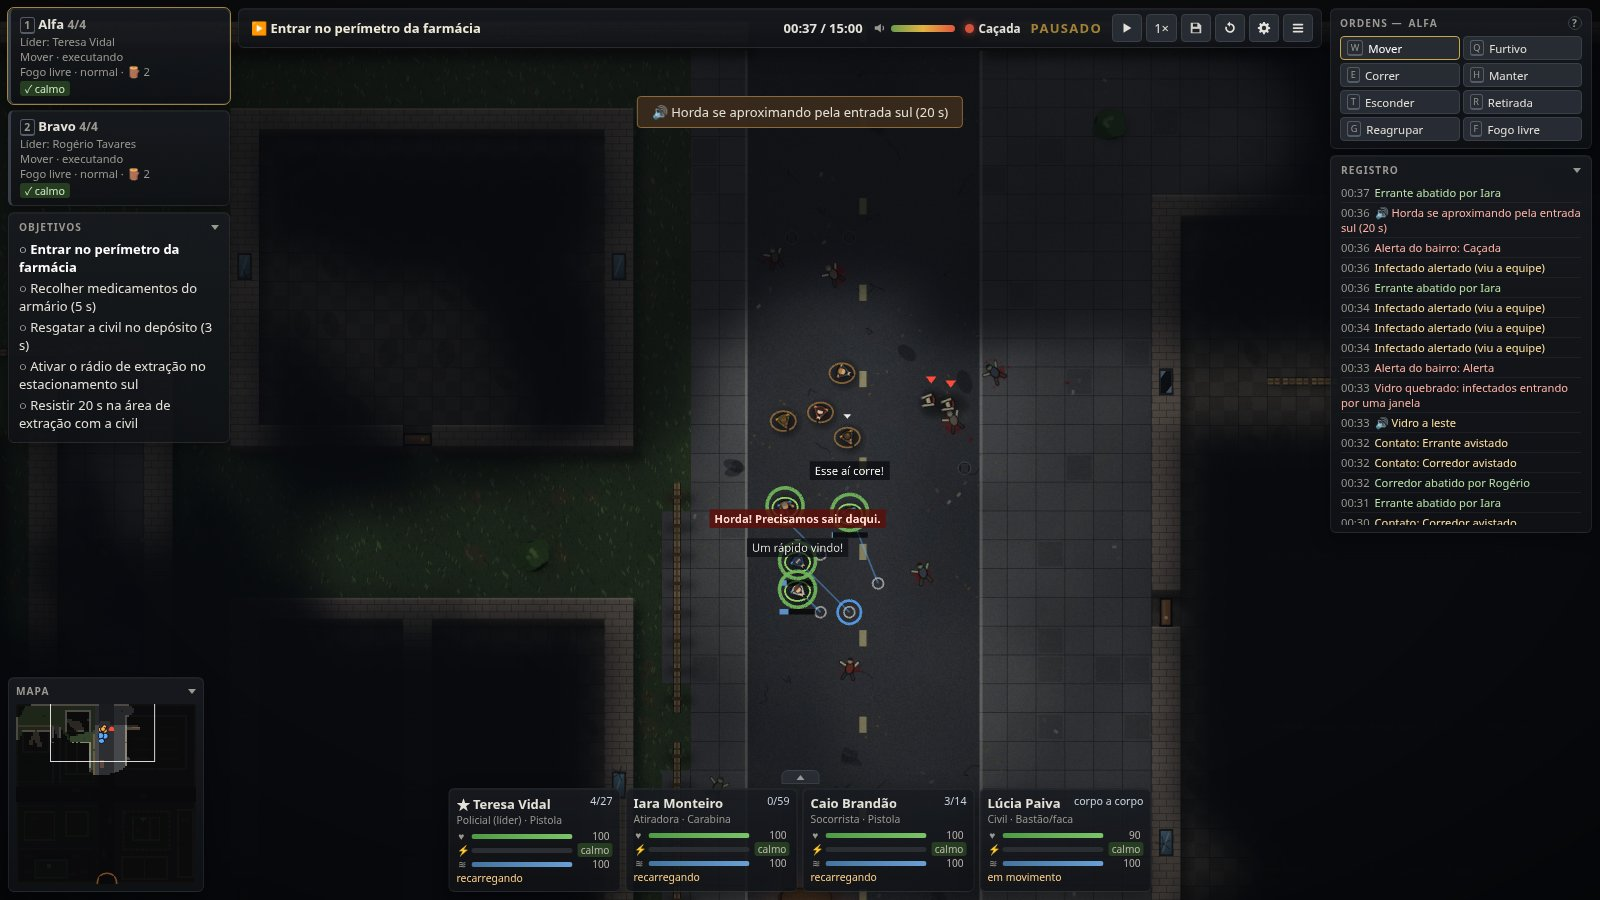
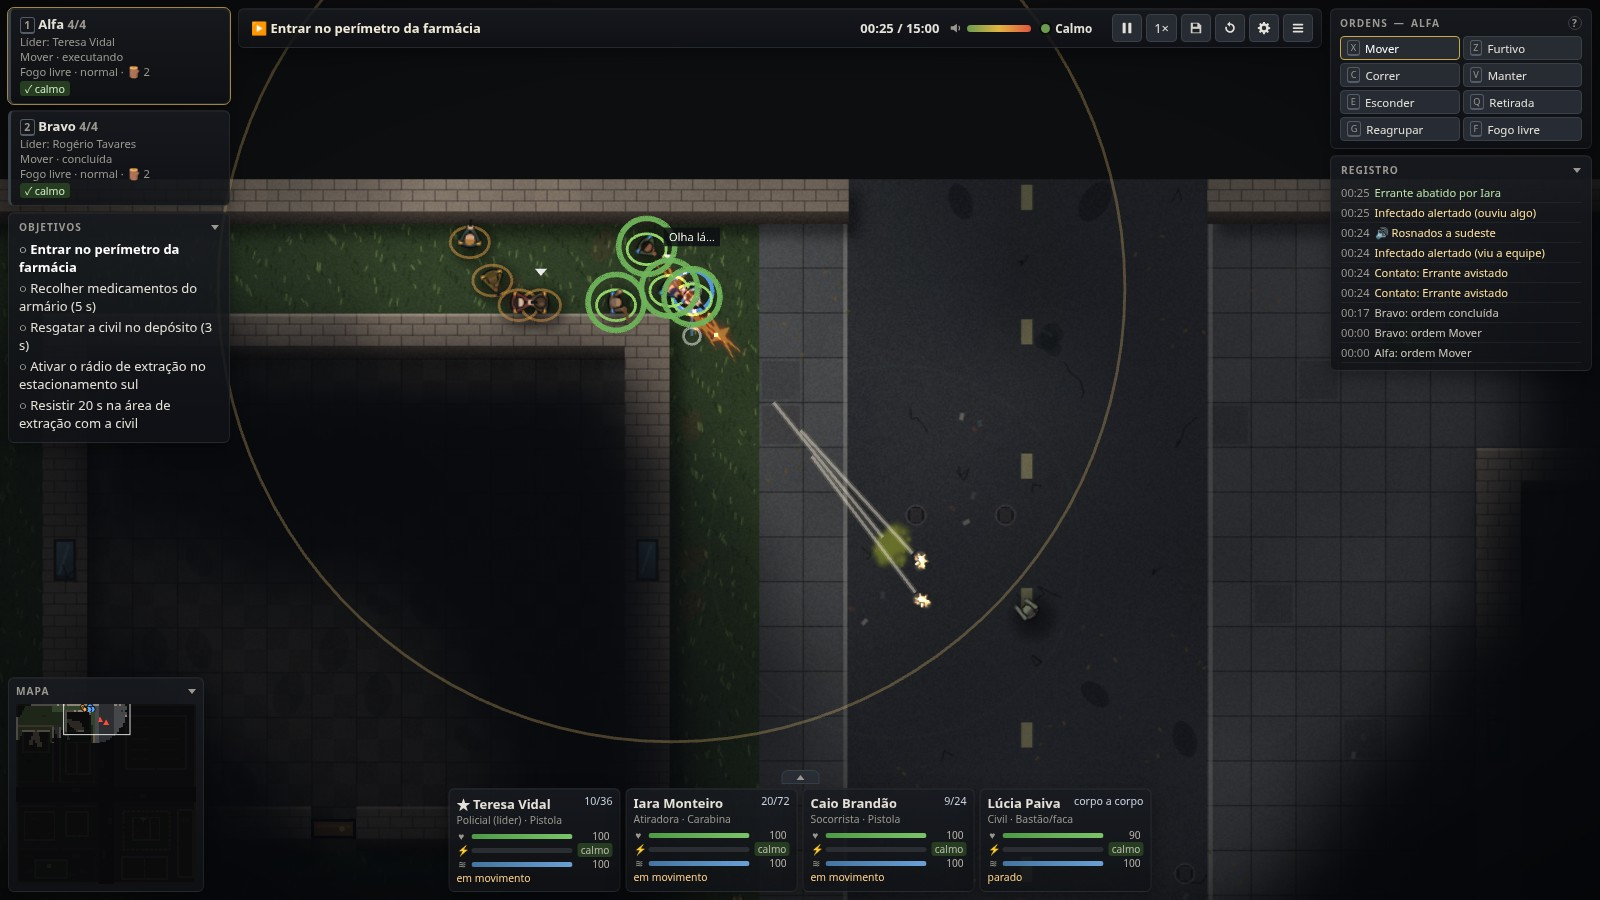
[ART] promo: capture screenshots by hand-stepped frames and add a cover
The README battle shot predated the baked effects, and the studio site showed
the bare icon as the game's card. apps/web/promo captures from the real game on
its scripted routes with Phaser's loop stopped and stepped at 30 fps, so a slow
machine only takes longer instead of missing the moment. The new battle shot
catches a muzzle flash, tracers and an ichor hit; the cover puts the title,
drawn in EffectCraft (tools/promo/cover.mjs), over a gameplay plate with the
HUD hidden, and gs42.json now points the studio site at it.

diff --git a/apps/web/promo/shots.promo.ts b/apps/web/promo/shots.promo.ts
@@ -1,0 +1,94 @@
+// Store and README screenshots, taken from the real game with its deterministic scripted routes.
+// Run: pnpm --filter @dead-sector/game exec playwright test -c promo/playwright.config.ts shots
+import { test, type Page } from '@playwright/test';
+import { fileURLToPath } from 'node:url';
+
+const OUT = fileURLToPath(new URL('../../../docs/screenshots/', import.meta.url));
+
+/** Stops Phaser's own loop and advances the game by hand at 30 fps, so captures do not depend on speed. */
+async function manualClock(page: Page): Promise<void> {
+  await page.evaluate(() => {
+    const g = (window as any).__PHASER_GAME__;
+    g.loop.sleep();
+    let t = g.loop.now;
+    (window as any).__step = (frames: number) => {
+      for (let i = 0; i < frames; i++) {
+        t += 1000 / 30;
+        g.step(t, 1000 / 30);
+      }
+    };
+  });
+}
+const step = (page: Page, frames: number) =>
+  page.evaluate((n) => (window as any).__step(n), frames);
+
+async function mission(page: Page, id: string): Promise<void> {
+  // no tutorial hints over the frame
+  await page.addInitScript(() => localStorage.setItem('dead-sector:tips', '0'));
+  await page.goto('/?lang=pt-BR');
+  await page.getByTestId('btn-new-mission').click();
+  await page.getByTestId(`pick-${id}`).click();
+  await page.getByTestId('btn-deploy').click();
+  await page.waitForFunction(() => !!(window as any).__DEAD_SECTOR__);
+}
+
+const zoom = (page: Page, z: number) =>
+  page.evaluate(
+    (v) => (window as any).__PHASER_GAME__.scene.getScene('Tactical').cameras.main.setZoom(v),
+    z,
+  );
+
+/** Steps the game until `count` more `event`s happened with `follow` on screen; returns false on timeout. */
+async function until(page: Page, event: string, count: number, follow: string, frames = 3000) {
+  return page.evaluate(
+    ({ event, count, follow, frames }) => {
+      const h = (window as any).__DEAD_SECTOR__;
+      const target = h.eventCount(event) + count;
+      for (let i = 0; i < frames; i++) {
+        const a = h.state().survivors.find((s: any) => s.alive && s.squadId === follow);
+        if (a) h.centerOn(a.position.x + 3, a.position.y + 2);
+        (window as any).__step(1);
+        if (h.eventCount(event) >= target) return true;
+      }
+      return false;
+    },
+    { event, count, follow, frames },
+  );
+}
+
+const CANDIDATES = process.env['PROMO_CANDIDATES'];
+const shot = (page: Page, name: string) =>
+  page.screenshot({ path: `${CANDIDATES ?? OUT}${name}.jpg`, type: 'jpeg', quality: 90 });
+
+test('firefight at dusk', async ({ page }) => {
+  await mission(page, 'a-ultima-farmacia');
+  await page.evaluate(() => (window as any).__DEAD_SECTOR__.startPlan('combat'));
+  await manualClock(page);
+  await zoom(page, 2.8);
+  // skip the walk to the first contact, then catch shots a couple of frames into their flash
+  await until(page, 'SHOT_FIRED', 1, 'alfa', 6000);
+  for (let n = 0; n < (CANDIDATES ? 6 : 1); n++) {
+    await until(page, 'SHOT_FIRED', 3, 'alfa');
+    await step(page, 2);
+    await shot(page, CANDIDATES ? `battle-${n}` : 'battle');
+  }
+});
+
+// The plate under the store cover and the studio site card: the same fight with the HUD hidden.
+test('cover plate', async ({ page }) => {
+  await mission(page, 'a-ultima-farmacia');
+  await page.evaluate(() => (window as any).__DEAD_SECTOR__.startPlan('combat'));
+  await manualClock(page);
+  await zoom(page, 2.4);
+  await page.evaluate(
+    () => ((document.getElementById('ui') as HTMLElement).style.display = 'none'),
+  );
+  await until(page, 'SHOT_FIRED', 1, 'alfa', 6000);
+  for (let n = 0; n < (CANDIDATES ? 6 : 1); n++) {
+    await until(page, 'SHOT_FIRED', 4, 'alfa');
+    await step(page, 2);
+    await page.screenshot({
+      path: `${CANDIDATES ?? OUT}cover-plate${CANDIDATES ? `-${n}` : ''}.png`,
+    });
+  }
+});

diff --git a/apps/web/promo/playwright.config.ts b/apps/web/promo/playwright.config.ts
@@ -1,0 +1,22 @@
+import { defineConfig, devices } from '@playwright/test';
+
+// Promo captures: same build and port as the E2E suite, but a 1600×900 window and no time limit
+// worth worrying about (frames are stepped by hand, so slow machines only take longer).
+export default defineConfig({
+  testDir: '.',
+  testMatch: /.*\.promo\.ts/,
+  timeout: 600_000,
+  workers: 1,
+  reporter: [['list']],
+  use: {
+    baseURL: 'http://localhost:4317',
+    ...devices['Desktop Chrome'],
+    viewport: { width: 1600, height: 900 },
+  },
+  webServer: {
+    command: 'pnpm --filter @dead-sector/game build && pnpm --filter @dead-sector/game preview',
+    url: 'http://localhost:4317',
+    reuseExistingServer: false,
+    timeout: 120_000,
+  },
+});

diff --git a/eslint.config.js b/eslint.config.js
@@ -24,7 +24,7 @@ export default tseslint.config(
   },
   {
     // page.evaluate crosses into the browser context, where window hooks are untyped
-    files: ['apps/web/e2e/**/*.ts'],
+    files: ['apps/web/e2e/**/*.ts', 'apps/web/promo/**/*.ts'],
     rules: { '@typescript-eslint/no-explicit-any': 'off' },
   },
   {
